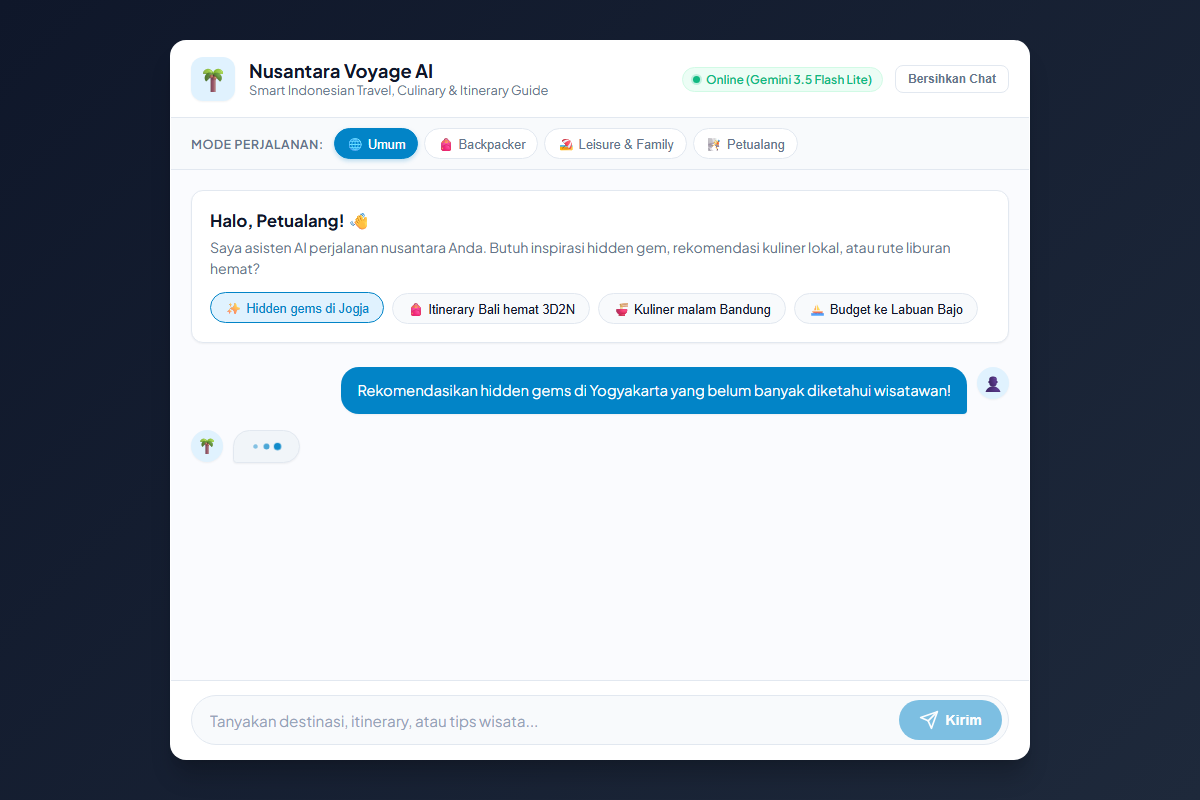
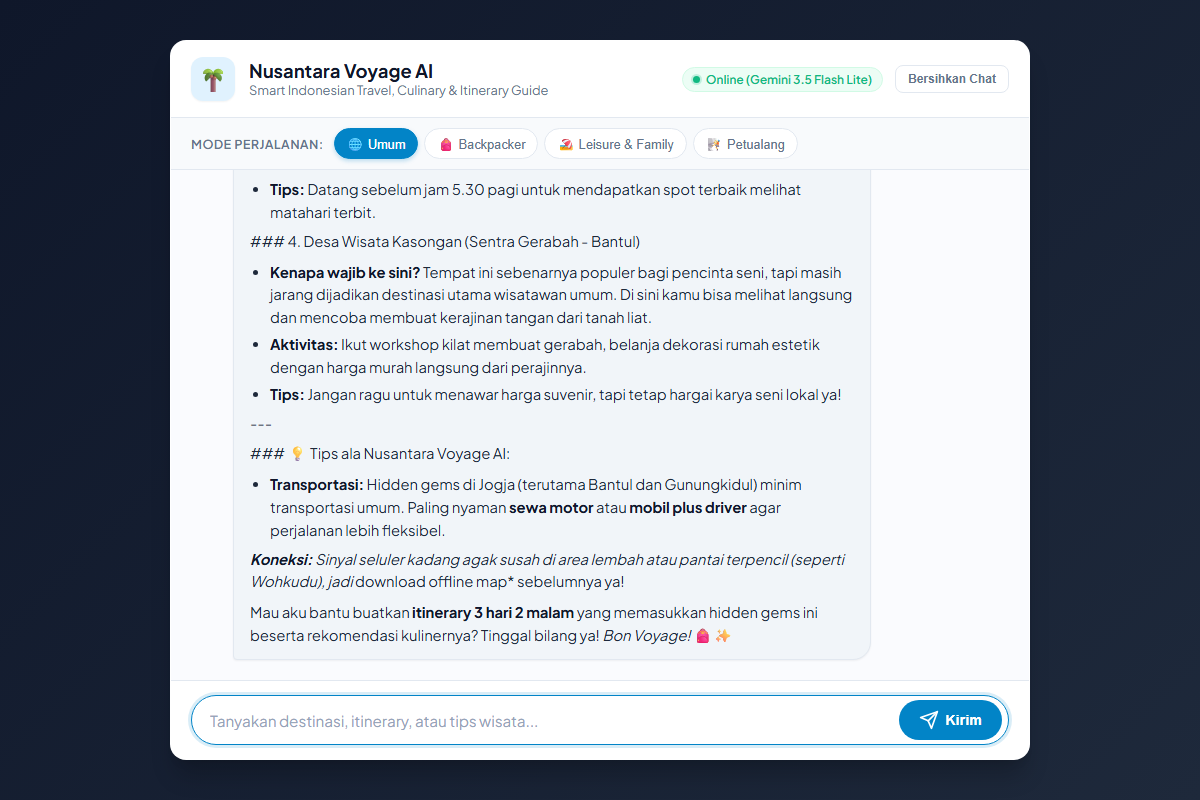
feat: dual-port support (3000 & 4848), adaptive endpoint detection, and updated UI screenshot

diff --git a/Static/script.js b/Static/script.js
@@ -172,19 +172,41 @@ form.addEventListener('submit', async function (e) {
   showThinking();
 
   try {
-    const response = await fetch('/api/chat', {
-      method: 'POST',
-      headers: {
-        'Content-Type': 'application/json',
-      },
-      body: JSON.stringify({
-        conversation: conversationHistory,
-        tone: currentTone
-      }),
-    });
+    // Tentukan endpoint secara adaptif (mendukung http://localhost:3000, 4848, file://, atau Live Server)
+    const isDirectServer = window.location.protocol.startsWith('http') && 
+      (window.location.port === '3000' || window.location.port === '4848');
+    
+    let targetUrl = isDirectServer ? '/api/chat' : 'http://localhost:3000/api/chat';
+
+    let response;
+    try {
+      response = await fetch(targetUrl, {
+        method: 'POST',
+        headers: { 'Content-Type': 'application/json' },
+        body: JSON.stringify({
+          conversation: conversationHistory,
+          tone: currentTone
+        }),
+      });
+    } catch (err) {
+      // Jika port 3000 tidak merespons (misal saat dibuka via file://), coba port 4848
+      if (!isDirectServer) {
+        response = await fetch('http://localhost:4848/api/chat', {
+          method: 'POST',
+          headers: { 'Content-Type': 'application/json' },
+          body: JSON.stringify({
+            conversation: conversationHistory,
+            tone: currentTone
+          }),
+        });
+      } else {
+        throw err;
+      }
+    }
 
     if (!response.ok) {
-      throw new Error(`HTTP error! status: ${response.status}`);
+      const errData = await response.json().catch(() => ({}));
+      throw new Error(errData.message || `HTTP error! status: ${response.status}`);
     }
 
     const data = await response.json();
@@ -198,7 +220,8 @@ form.addEventListener('submit', async function (e) {
   } catch (error) {
     console.error('Chat error:', error);
     removeThinking();
-    appendMessage('bot', '⚠ Maaf, terjadi kesalahan saat menghubungi server AI. Pastikan server backend sedang berjalan dan periksa koneksi internet Anda.');
+    const detail = error.message ? ` (${error.message})` : '';
+    appendMessage('bot', `⚠ Maaf, terjadi kesalahan saat menghubungi server AI${detail}. Pastikan server backend (node index.js) sudah dijalankan di terminal pada port 3000 atau 4848.`);
   } finally {
     isThinking = false;
     sendBtn.disabled = false;

diff --git a/index.js b/index.js
@@ -9,7 +9,8 @@ const __filename = fileURLToPath(import.meta.url);
 const __dirname = path.dirname(__filename);
 
 const app = express();
-const PORT = process.env.PORT || 4848;
+const PRIMARY_PORT = parseInt(process.env.PORT, 10) || 3000;
+const ALT_PORT = PRIMARY_PORT === 3000 ? 4848 : 3000;
 
 // Gemini Client Setup
 const apiKey = process.env.GEMINI_API_KEY || process.env.API_KEY;
@@ -137,6 +138,16 @@ app.post('/generate-text', async (req, res) => {
   }
 });
 
-app.listen(PORT, () => {
-  console.log(`Server Nusantara Voyage AI berjalan di http://localhost:${PORT}`);
+const server1 = app.listen(PRIMARY_PORT, () => {
+  console.log(`Server Nusantara Voyage AI berjalan di http://localhost:${PRIMARY_PORT}`);
+});
+server1.on('error', (err) => {
+  console.warn(`Port ${PRIMARY_PORT} info: ${err.message}`);
+});
+
+const server2 = app.listen(ALT_PORT, () => {
+  console.log(`Server juga aktif di http://localhost:${ALT_PORT}`);
+});
+server2.on('error', (err) => {
+  // port fallback silent ignore
 });
